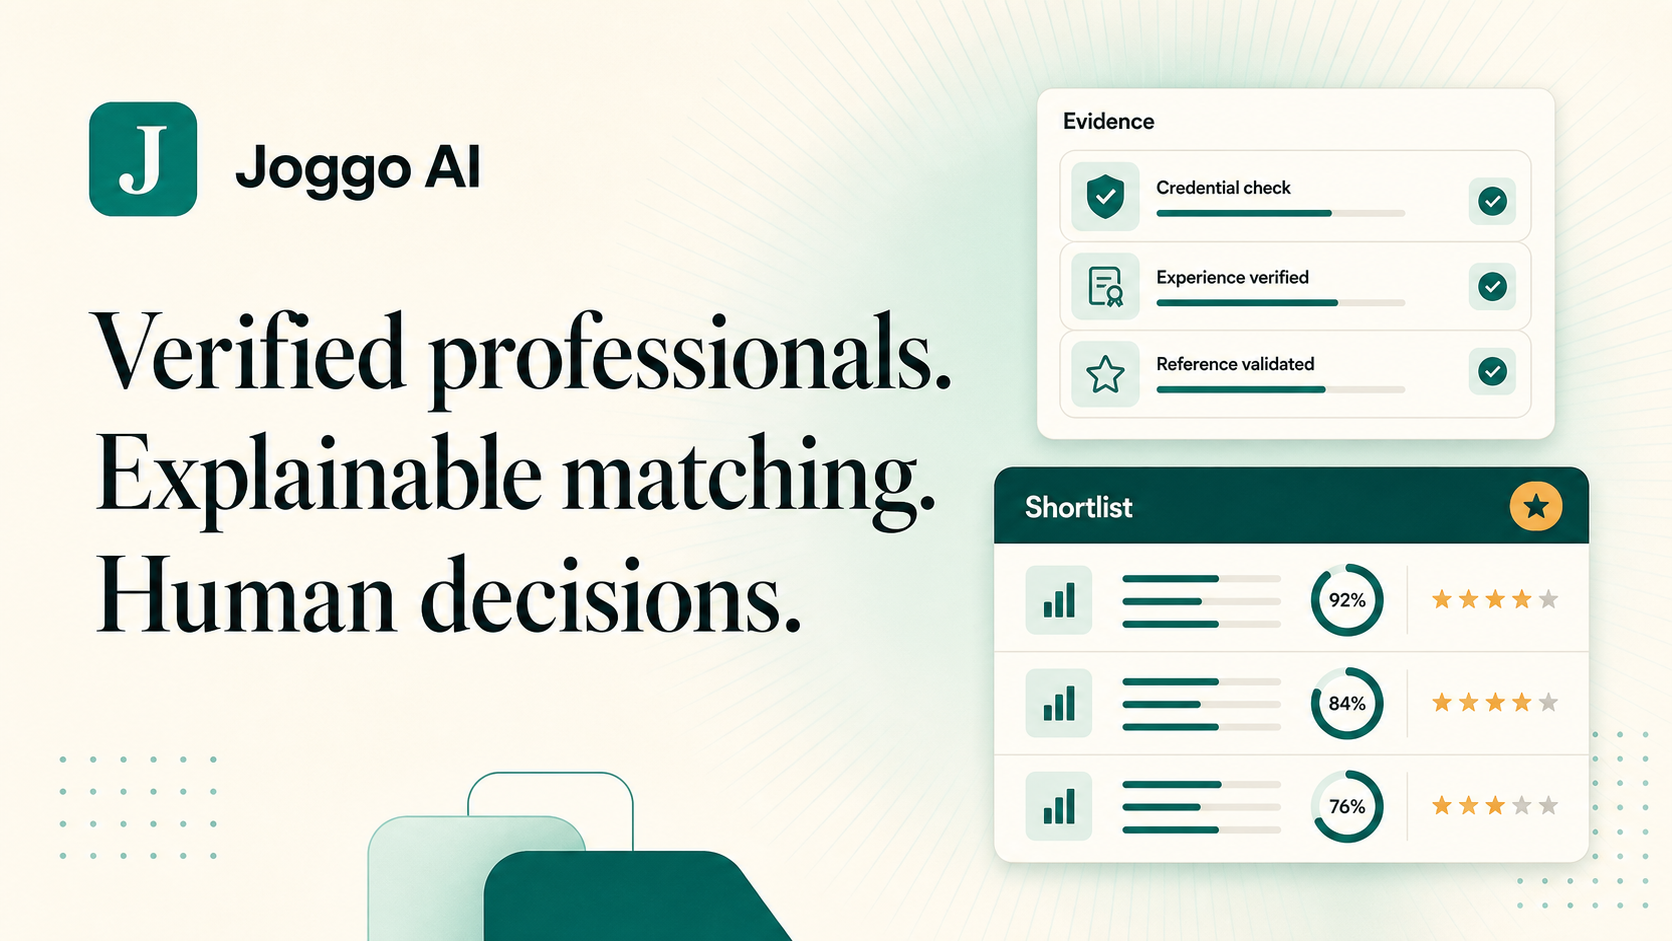
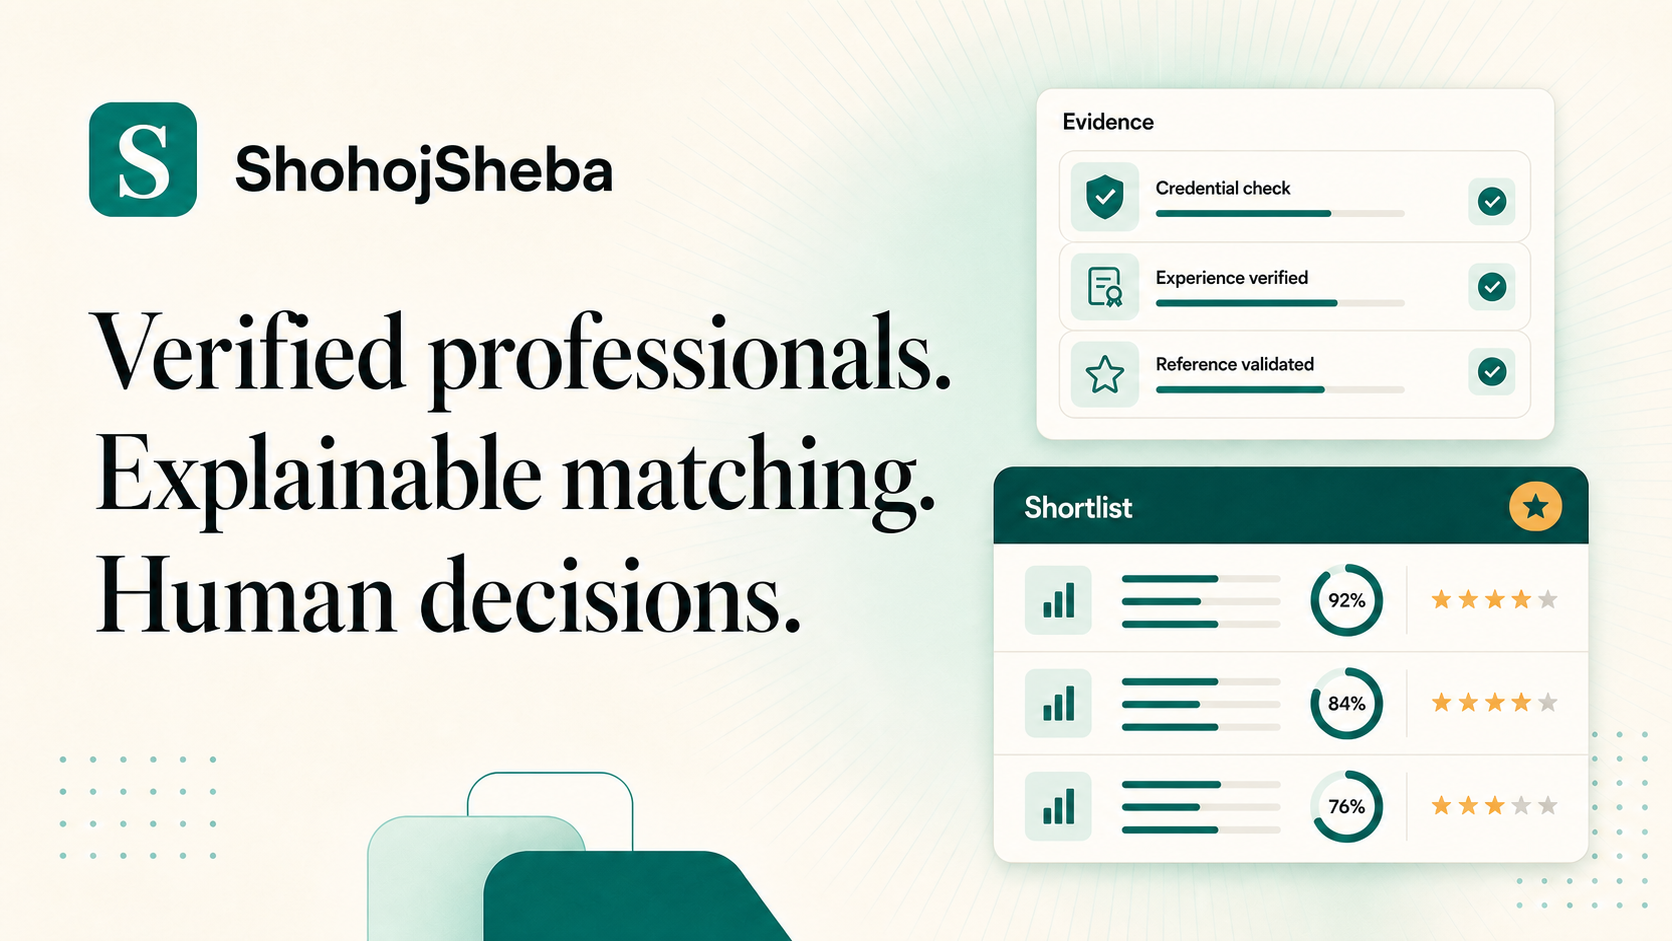
Add live GPT-5.6 extraction and rename to ShohojSheba

diff --git a/src/features/staffing-request/openai-extraction.ts b/src/features/staffing-request/openai-extraction.ts
@@ -1,0 +1,77 @@
+import type { StaffingRequirement } from "../../domain/types";
+import type { ExtractionResult } from "./extraction";
+import { validateStaffingRequirement } from "./extraction";
+
+type Fetcher = typeof fetch;
+
+interface ResponsesPayload {
+  output?: Array<{
+    type?: string;
+    content?: Array<{ type?: string; text?: string }>;
+  }>;
+}
+
+const staffingRequirementSchema = {
+  type: "object",
+  additionalProperties: false,
+  properties: {
+    profession: { type: "string", enum: ["registered_nurse", "medical_technologist", "physiotherapist", "caregiver"] },
+    area: { type: "string" },
+    startsAt: { type: "string" },
+    endsAt: { type: "string" },
+    requiredSkills: { type: "array", items: { type: "string" } },
+    requiredCredentialStatus: { type: "string", enum: ["platform_verified"] },
+    maxHourlyRateBdt: { type: "number" },
+    notes: { type: "string" },
+    confidence: { type: "string", enum: ["high", "medium", "low"] },
+    warnings: { type: "array", items: { type: "string" } },
+  },
+  required: ["profession", "area", "startsAt", "endsAt", "requiredSkills", "requiredCredentialStatus", "maxHourlyRateBdt", "notes", "confidence", "warnings"],
+};
+
+export async function extractStaffingRequestLive(input: string, apiKey: string, fetcher: Fetcher = fetch): Promise<ExtractionResult> {
+  const response = await fetcher("https://api.openai.com/v1/responses", {
+    method: "POST",
+    headers: { Authorization: `Bearer ${apiKey}`, "Content-Type": "application/json" },
+    body: JSON.stringify({
+      model: "gpt-5.6-sol",
+      reasoning: { effort: "low" },
+      text: {
+        verbosity: "low",
+        format: { type: "json_schema", name: "staffing_requirement", strict: true, schema: staffingRequirementSchema },
+      },
+      store: false,
+      safety_identifier: "shohojsheba_demo_staffing_coordinator",
+      instructions: [
+        "Extract only healthcare staffing requirements from the user's text.",
+        "The reference timezone is Asia/Dhaka and the scripted reference date is 2026-07-19.",
+        "Never include patient information, invent credentials, or make a hiring decision.",
+        "Use ISO 8601 UTC timestamps. Put any assumption or ambiguity in warnings.",
+      ].join(" "),
+      input,
+    }),
+  });
+
+  if (!response.ok) throw new Error(`OpenAI request failed with status ${response.status}.`);
+  const payload = await response.json() as ResponsesPayload;
+  const outputText = payload.output
+    ?.flatMap((item) => item.type === "message" ? (item.content ?? []) : [])
+    .find((content) => content.type === "output_text")?.text;
+  if (!outputText) throw new Error("OpenAI response did not contain structured output text.");
+
+  const parsed = JSON.parse(outputText) as StaffingRequirement & { confidence: ExtractionResult["confidence"]; warnings: string[] };
+  const requirement: StaffingRequirement = {
+    profession: parsed.profession,
+    area: parsed.area,
+    startsAt: parsed.startsAt,
+    endsAt: parsed.endsAt,
+    requiredSkills: parsed.requiredSkills,
+    requiredCredentialStatus: parsed.requiredCredentialStatus,
+    maxHourlyRateBdt: parsed.maxHourlyRateBdt,
+    notes: parsed.notes,
+  };
+  const errors = validateStaffingRequirement(requirement);
+  if (errors.length > 0) throw new Error(`OpenAI output failed domain validation: ${errors.join(" ")}`);
+
+  return { requirement, source: "live_model", confidence: parsed.confidence, warnings: parsed.warnings };
+}

diff --git a/src/features/staffing-request/openai-extraction.test.ts b/src/features/staffing-request/openai-extraction.test.ts
@@ -1,0 +1,36 @@
+import { describe, expect, it, vi } from "vitest";
+import { extractStaffingRequestLive } from "./openai-extraction";
+
+describe("GPT-5.6 staffing request extraction", () => {
+  it("uses the Responses API with a strict schema and validates the result", async () => {
+    const fetcher = vi.fn(async (_input: string | URL | Request, init?: RequestInit) => {
+      const request = JSON.parse(String(init?.body));
+      expect(request.model).toBe("gpt-5.6-sol");
+      expect(request.reasoning.effort).toBe("low");
+      expect(request.text.format.type).toBe("json_schema");
+      expect(request.text.format.strict).toBe(true);
+      expect(request.store).toBe(false);
+      return new Response(JSON.stringify({ output: [{ type: "message", content: [{ type: "output_text", text: JSON.stringify({
+        profession: "registered_nurse",
+        area: "Dhanmondi",
+        startsAt: "2026-07-20T14:00:00.000Z",
+        endsAt: "2026-07-21T02:00:00.000Z",
+        requiredSkills: ["ICU", "BLS"],
+        requiredCredentialStatus: "platform_verified",
+        maxHourlyRateBdt: 350,
+        notes: "Overnight clinic coverage.",
+        confidence: "high",
+        warnings: [],
+      }) }] }] }), { status: 200, headers: { "Content-Type": "application/json" } });
+    });
+
+    const result = await extractStaffingRequestLive("Need an ICU nurse.", "sk-test", fetcher as typeof fetch);
+    expect(result.source).toBe("live_model");
+    expect(result.requirement.requiredSkills).toEqual(["ICU", "BLS"]);
+  });
+
+  it("rejects an API failure without weakening the domain contract", async () => {
+    const fetcher = vi.fn(async () => new Response("unavailable", { status: 503 }));
+    await expect(extractStaffingRequestLive("Need a nurse.", "sk-test", fetcher as typeof fetch)).rejects.toThrow("503");
+  });
+});

diff --git a/src/features/staffing-request/request-builder.tsx b/src/features/staffing-request/request-builder.tsx
@@ -3,6 +3,7 @@
 import { useMemo, useState } from "react";
 import Link from "next/link";
 import type { Profession, StaffingRequirement } from "../../domain/types";
+import type { ExtractionResult } from "./extraction";
 import { extractStaffingRequestFallback, validateStaffingRequirement } from "./extraction";
 
 const defaultRequest =
@@ -19,13 +20,31 @@ export function RequestBuilder() {
   const [requestText, setRequestText] = useState(defaultRequest);
   const [requirement, setRequirement] = useState<StaffingRequirement | null>(null);
   const [warnings, setWarnings] = useState<string[]>([]);
+  const [source, setSource] = useState<ExtractionResult["source"] | null>(null);
+  const [isAnalysing, setIsAnalysing] = useState(false);
   const [confirmed, setConfirmed] = useState(false);
   const errors = useMemo(() => (requirement ? validateStaffingRequirement(requirement) : []), [requirement]);
 
-  function analyseRequest() {
-    const result = extractStaffingRequestFallback(requestText);
+  async function analyseRequest() {
+    setIsAnalysing(true);
+    let result: ExtractionResult;
+    try {
+      const response = await fetch("/api/staffing-request/extract", {
+        method: "POST",
+        headers: { "Content-Type": "application/json" },
+        body: JSON.stringify({ input: requestText }),
+      });
+      if (!response.ok) throw new Error("Extraction request failed.");
+      result = await response.json() as ExtractionResult;
+    } catch {
+      result = extractStaffingRequestFallback(requestText);
+      result.warnings.unshift("The extraction service was unreachable; the local deterministic fallback was used.");
+    } finally {
+      setIsAnalysing(false);
+    }
     setRequirement(result.requirement);
     setWarnings(result.warnings);
+    setSource(result.source);
     setConfirmed(false);
   }
 
@@ -64,8 +83,8 @@ export function RequestBuilder() {
           onChange={(event) => setRequestText(event.target.value)}
           rows={8}
         />
-        <button className="primary-action" type="button" onClick={analyseRequest} disabled={!requestText.trim()}>
-          Structure this request
+        <button className="primary-action" type="button" onClick={analyseRequest} disabled={!requestText.trim() || isAnalysing}>
+          {isAnalysing ? "Structuring with GPT-5.6 Sol…" : "Structure this request"}
         </button>
         <p className="privacy-note">Use staffing details only. Never include patient names or medical records.</p>
       </section>
@@ -80,9 +99,9 @@ export function RequestBuilder() {
           </div>
         ) : (
           <>
-            <div className="fallback-notice">
-              <strong>Deterministic demo fallback</strong>
-              <span>Live model access is not configured. Review all suggested fields.</span>
+            <div className={source === "live_model" ? "live-model-notice" : "fallback-notice"}>
+              <strong>{source === "live_model" ? "Live GPT-5.6 Sol extraction" : "Deterministic demo fallback"}</strong>
+              <span>{source === "live_model" ? "Structured with the OpenAI Responses API. Human review is still required." : "Live model access was unavailable. Review all suggested fields."}</span>
             </div>
             <div className="field-grid">
               <label>

diff --git a/src/app/api/staffing-request/extract/route.ts b/src/app/api/staffing-request/extract/route.ts
@@ -1,0 +1,30 @@
+import { NextResponse } from "next/server";
+import { extractStaffingRequestFallback } from "../../../../features/staffing-request/extraction";
+import { extractStaffingRequestLive } from "../../../../features/staffing-request/openai-extraction";
+
+export async function POST(request: Request) {
+  const body = await request.json().catch(() => null) as { input?: unknown } | null;
+  const input = typeof body?.input === "string" ? body.input.trim() : "";
+  if (!input || input.length > 2_000) {
+    return NextResponse.json({ error: "Provide a staffing request between 1 and 2,000 characters." }, { status: 400 });
+  }
+
+  const apiKey = process.env.OPENAI_API_KEY;
+  if (apiKey) {
+    try {
+      return NextResponse.json(await extractStaffingRequestLive(input, apiKey));
+    } catch (error) {
+      console.error(
+        "[staffing-request] Live GPT-5.6 Sol extraction failed:",
+        error instanceof Error ? error.message : "Unknown OpenAI gateway error.",
+      );
+      const fallback = extractStaffingRequestFallback(input);
+      return NextResponse.json({
+        ...fallback,
+        warnings: ["Live GPT-5.6 Sol was unavailable; the disclosed deterministic fallback was used.", ...fallback.warnings],
+      });
+    }
+  }
+
+  return NextResponse.json(extractStaffingRequestFallback(input));
+}

diff --git a/src/app/layout.tsx b/src/app/layout.tsx
@@ -3,17 +3,17 @@ import type { ReactNode } from "react";
 import "./globals.css";
 
 export const metadata: Metadata = {
-  title: "Joggo AI",
+  title: "ShohojSheba",
   description: "Explainable healthcare staffing, with people in control.",
   metadataBase: new URL(process.env.NEXT_PUBLIC_SITE_URL ?? "http://localhost:3000"),
   openGraph: {
-    title: "Joggo AI",
+    title: "ShohojSheba",
     description: "Verified professionals. Explainable matching. Human decisions.",
-    images: [{ url: "/og.png", width: 1672, height: 941, alt: "Joggo AI healthcare staffing platform" }],
+    images: [{ url: "/og.png", width: 1672, height: 941, alt: "ShohojSheba healthcare staffing platform" }],
   },
   twitter: {
     card: "summary_large_image",
-    title: "Joggo AI",
+    title: "ShohojSheba",
     description: "Verified professionals. Explainable matching. Human decisions.",
     images: ["/og.png"],
   },

diff --git a/src/app/page.tsx b/src/app/page.tsx
@@ -11,9 +11,9 @@ export default function HomePage() {
   return (
     <main id="main-content">
       <header className="site-header">
-        <a className="brand" href="#top" aria-label="Joggo AI home">
-          <span className="brand-mark" aria-hidden="true">J</span>
-          <span>Joggo AI</span>
+        <a className="brand" href="#top" aria-label="ShohojSheba home">
+          <span className="brand-mark" aria-hidden="true">S</span>
+          <span>ShohojSheba</span>
         </a>
         <span className="demo-badge">Build Week demo</span>
       </header>
@@ -23,7 +23,7 @@ export default function HomePage() {
           <p className="eyebrow">Healthcare staffing · Bangladesh</p>
           <h1>Turn an urgent staffing need into a trusted shortlist.</h1>
           <p className="hero-text">
-            Joggo AI helps clinics structure requests, check hard requirements,
+            ShohojSheba helps clinics structure requests, check hard requirements,
             and understand candidate evidence—while people stay in control.
           </p>
           <div className="actions">

diff --git a/src/app/professionals/[id]/page.tsx b/src/app/professionals/[id]/page.tsx
@@ -45,8 +45,8 @@ export default async function ProfessionalProfilePage({
     <main id="main-content">
       <header className="site-header">
         <Link className="brand" href="/">
-          <span className="brand-mark" aria-hidden="true">J</span>
-          <span>Joggo AI</span>
+          <span className="brand-mark" aria-hidden="true">S</span>
+          <span>ShohojSheba</span>
         </Link>
         <span className="demo-badge">Synthetic credential review</span>
       </header>
@@ -93,7 +93,7 @@ export default async function ProfessionalProfilePage({
                 <article className="credential-card" key={credential.id}>
                   <div className={`credential-status ${credential.status}`}>{statusLabel[credential.status]}</div>
                   <div className="document-preview" aria-hidden="true">
-                    <span>JOGGO AI · SYNTHETIC DOCUMENT</span>
+                    <span>SHOHOJSHEBA · SYNTHETIC DOCUMENT</span>
                     <strong>{credential.type.replaceAll("_", " ")}</strong>
                     <small>Not a real credential</small>
                   </div>
@@ -124,7 +124,7 @@ export default async function ProfessionalProfilePage({
             </div>
             <div className="review-boundary">
               <strong>Human decision required</strong>
-              <p>Joggo AI organises evidence and flags gaps. It does not authenticate a government record or make the hiring decision.</p>
+              <p>ShohojSheba organises evidence and flags gaps. It does not authenticate a government record or make the hiring decision.</p>
             </div>
             <Link className="primary-action full-width" href={`/requests/${request.id}/invitations/new?professional=${professional.id}`}>
               Review invitation

diff --git a/src/app/assignments/[requestId]/page.tsx b/src/app/assignments/[requestId]/page.tsx
@@ -20,7 +20,7 @@ export default async function AssignmentPage({ params, searchParams }: {
   return (
     <main id="main-content">
       <header className="site-header">
-        <Link className="brand" href="/"><span className="brand-mark" aria-hidden="true">J</span><span>Joggo AI</span></Link>
+        <Link className="brand" href="/"><span className="brand-mark" aria-hidden="true">S</span><span>ShohojSheba</span></Link>
         <span className="demo-badge">Fictional assignment</span>
       </header>
       <section className="success-shell">
@@ -40,7 +40,7 @@ export default async function AssignmentPage({ params, searchParams }: {
         </div>
         <div className="completion-actions">
           <Link className="primary-action" href="/requests/new">Reset and run demo again</Link>
-          <Link className="secondary-link" href="/">Return to Joggo AI</Link>
+          <Link className="secondary-link" href="/">Return to ShohojSheba</Link>
         </div>
       </section>
     </main>

diff --git a/src/app/requests/[id]/matches/page.tsx b/src/app/requests/[id]/matches/page.tsx
@@ -18,8 +18,8 @@ export default async function MatchResultsPage({ params }: { params: Promise<{ i
     <main id="main-content">
       <header className="site-header">
         <Link className="brand" href="/">
-          <span className="brand-mark" aria-hidden="true">J</span>
-          <span>Joggo AI</span>
+          <span className="brand-mark" aria-hidden="true">S</span>
+          <span>ShohojSheba</span>
         </Link>
         <span className="demo-badge">Explainable demo ranking</span>
       </header>

diff --git a/src/app/requests/new/page.tsx b/src/app/requests/new/page.tsx
@@ -6,8 +6,8 @@ export default function NewStaffingRequestPage() {
     <main id="main-content">
       <header className="site-header">
         <Link className="brand" href="/">
-          <span className="brand-mark" aria-hidden="true">J</span>
-          <span>Joggo AI</span>
+          <span className="brand-mark" aria-hidden="true">S</span>
+          <span>ShohojSheba</span>
         </Link>
         <span className="demo-badge">Fictional demo data</span>
       </header>

diff --git a/src/app/globals.css b/src/app/globals.css
@@ -157,7 +157,8 @@ textarea:focus, input:focus, select:focus { outline: 3px solid rgb(14 118 108 / 
 .review-panel { min-height: 600px; }
 .empty-review { min-height: 390px; display: grid; place-content: center; justify-items: center; color: var(--muted); text-align: center; }
 .empty-review span { font-size: 2rem; color: var(--teal); }
-.fallback-notice { display: grid; gap: 4px; margin: 24px 0; padding: 14px; border-left: 4px solid var(--amber); border-radius: 8px; background: #fff4df; font-size: 0.84rem; }
+.fallback-notice, .live-model-notice { display: grid; gap: 4px; margin: 24px 0; padding: 14px; border-left: 4px solid var(--amber); border-radius: 8px; background: #fff4df; font-size: 0.84rem; }
+.live-model-notice { border-left-color: var(--teal); color: var(--teal-dark); background: var(--mint); }
 .field-grid { display: grid; grid-template-columns: repeat(2, 1fr); gap: 18px; }
 .shift-summary { display: grid; gap: 5px; margin: 22px 0; padding: 16px; border-radius: 14px; background: var(--mint); }
 .shift-summary span, .shift-summary small { color: var(--teal-dark); font-size: 0.78rem; }

diff --git a/src/app/error.tsx b/src/app/error.tsx
@@ -5,7 +5,7 @@ import { useEffect } from "react";
 
 export default function ErrorPage({ error, reset }: { error: Error & { digest?: string }; reset: () => void }) {
   useEffect(() => {
-    console.error("Joggo AI route error", error);
+    console.error("ShohojSheba route error", error);
   }, [error]);
 
   return (